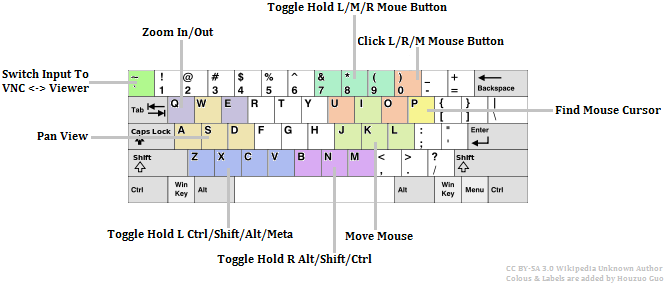
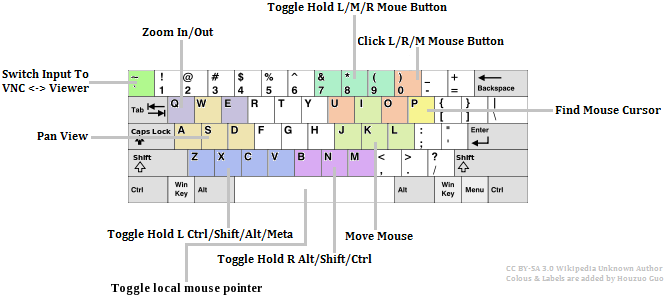
toggle mouse pointer to be displayed locally with space bar

diff --git a/viewer.c b/viewer.c
@@ -22,6 +22,7 @@ static char const *viewer_help[] = {
 	"~     Click back-tick in VNC       ",
 	"wasd  Pan viewer                   ",
 	"q/e   Zoom out/in                  ",
+	"Space Toggle display mouse pointer ",
 	"============ RIGHT HAND ===========",
 	"F10  Quit                          ",
 	"ijkl Move mouse cursor             ",
@@ -45,6 +46,7 @@ static struct _rfbClient *rfb(struct viewer *v)
 
 bool viewer_init(struct viewer * v, struct vnc * vnc)
 {
+	/* All bool switches are off by default */
 	memset(v, 0, sizeof(struct viewer));
 	/* Initialise visuals */
 	v->view = caca_create_canvas(0, 0);
@@ -170,14 +172,19 @@ void viewer_redraw(struct viewer *v)
 	/*
 	 * Mouse cursors are usually wider than 14 pixels. If it will not take
 	 * more than 5 characters to draw the cusor, then consider it very
-	 * difficult to spot on the VNC canvas, and draw an easy to spot block
-	 * right there.
+	 * difficult to spot on the VNC canvas, and draw a red block right there.
 	 */
+	int mouse_ch_x = geo_dither_ch_px_x(&params, v->geo.mouse_x);
+	int mouse_ch_y = geo_dither_ch_px_y(&params, v->geo.mouse_y);
 	if (geo_dither_numch_x(&params, 12) < 5) {
 		caca_set_color_ansi(v->view, CACA_WHITE, CACA_RED);
-		int ch_x = geo_dither_ch_px_x(&params, v->geo.mouse_x);
-		int ch_y = geo_dither_ch_px_y(&params, v->geo.mouse_y);
-		caca_fill_box(v->view, ch_x - 1, ch_y - 1, 3, 3, '*');
+		caca_fill_box(v->view, mouse_ch_x - 1, mouse_ch_y - 1, 3, 3,
+			      '*');
+	}
+	/* Draw local mouse pointer */
+	if (v->draw_mouse_pointer) {
+		caca_set_color_ansi(v->view, CACA_WHITE, CACA_RED);
+		caca_put_char(v->view, mouse_ch_x, mouse_ch_y, '*');
 	}
 	viewer_disp_status(v);
 	if (v->disp_help) {
@@ -439,6 +446,9 @@ bool viewer_handle_control(struct viewer * v, int caca_key)
 	case '~':
 		/* Click back-tick (96 in ASCII) in VNC */
 		viewer_vnc_click_key(v, 96);
+		break;
+	case ' ':
+		v->draw_mouse_pointer = !v->draw_mouse_pointer;
 		break;
 		/* Right hand */
 	case 'i':

diff --git a/geo.c b/geo.c
@@ -1,8 +1,8 @@
 #include <string.h>
 #include "geo.h"
 
-struct geo_facts geo_facts_of(struct vnc *vnc, caca_display_t * disp,
-			      caca_canvas_t * view)
+struct geo_facts
+geo_facts_of(struct vnc *vnc, caca_display_t * disp, caca_canvas_t * view)
 {
 	struct geo_facts ret;
 	ret.px_width = caca_get_display_width(disp);
@@ -55,9 +55,9 @@ void geo_zoom(struct geo *g, struct geo_facts facts, int offset)
 	    (g->zoom <
 	     0) ? 1.0 / g->zoom_lvls[-g->zoom] : g->zoom_lvls[g->zoom];
 	g->zoom_y =
-	    g->zoom_x * facts.ch_width / facts.ch_height *
-	    facts.vnc_height / facts.vnc_width * facts.ch_height /
-	    facts.ch_width * facts.px_width / facts.px_height;
+	    g->zoom_x * facts.ch_width / facts.ch_height * facts.vnc_height /
+	    facts.vnc_width * facts.ch_height / facts.ch_width *
+	    facts.px_width / facts.px_height;
 
 	if (g->zoom_y > g->zoom_x) {
 		float tmp = g->zoom_x;
@@ -90,8 +90,8 @@ void geo_pan(struct geo *g, int pan_x, int pan_y)
 	}
 }
 
-void geo_move_mouse(struct geo *g, struct geo_facts facts, int step_x,
-		    int step_y)
+void
+geo_move_mouse(struct geo *g, struct geo_facts facts, int step_x, int step_y)
 {
 	int speed = g->mouse_speed[g->zoom];
 	g->mouse_x += step_x * speed;
@@ -117,8 +117,8 @@ void geo_zoom_to_cursor(struct geo *g, struct geo_facts facts)
 	g->view_y = (float)g->mouse_y / (float)facts.vnc_height;
 }
 
-struct geo_dither_params geo_get_dither_params(struct geo *g,
-					       struct geo_facts facts)
+struct geo_dither_params
+geo_get_dither_params(struct geo *g, struct geo_facts facts)
 {
 	struct geo_dither_params ret;
 	ret.facts = facts;

diff --git a/viewer.h b/viewer.h
@@ -31,6 +31,7 @@ struct viewer {
 	bool disp_help, input2vnc;
 	bool hold_lctrl, hold_lshift, hold_lalt, hold_lsuper, hold_ralt,
 	    hold_rshift, hold_rctrl;
+	bool draw_mouse_pointer;
 	bool mouse_left, mouse_middle, mouse_right;
 };
 

diff --git a/README.md b/README.md
@@ -32,7 +32,7 @@ In general, the left hand side keys pan and zoom viewer, the right hand side key
 You are most welcomed to contribute code and file bug report, feature request, and questions in the project's [issues page](https://github.com/HouzuoGuo/headmore/issues), you may also direct any inquiry to the author in [Email](mailto:guohouzuo@gmail.com).
 
 ## License
-Copyright (c) 2016 Howard Guo <guohouzuo@gmail.com>
+Copyright (c) 2017 Howard Guo <guohouzuo@gmail.com>
 
 This program is free software; you can redistribute it and/or modify it under the terms of the GNU General Public License as published by the Free Software Foundation; either version 3 of the License, or (at your option) any later version.
 
